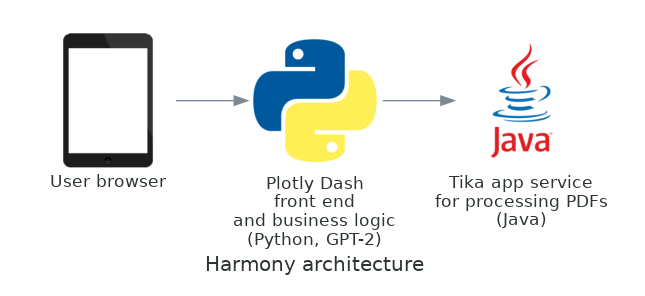
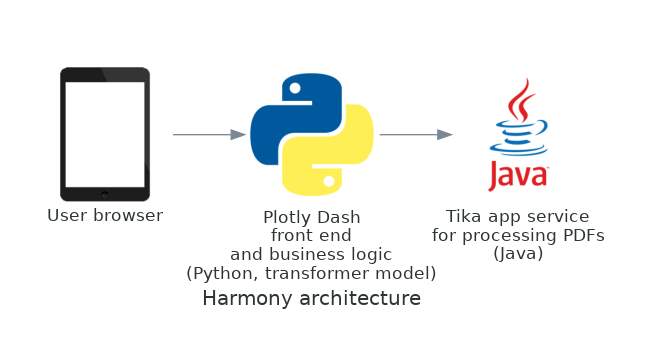
update docs

diff --git a/images/generate_diagram.py b/images/generate_diagram.py
@@ -10,7 +10,7 @@ from diagrams.programming.language import Python, Java
 with Diagram("Harmony architecture", show=False):
 
     browser = Tablet("User browser")
-    dash = Python("Plotly Dash\nfront end\nand business logic\n(Python, GPT-2)")
+    dash = Python("Plotly Dash\nfront end\nand business logic\n(Python, transformer model)")
     tika = Java("Tika app service\nfor processing PDFs\n(Java)")
 
     browser >> dash >> tika
